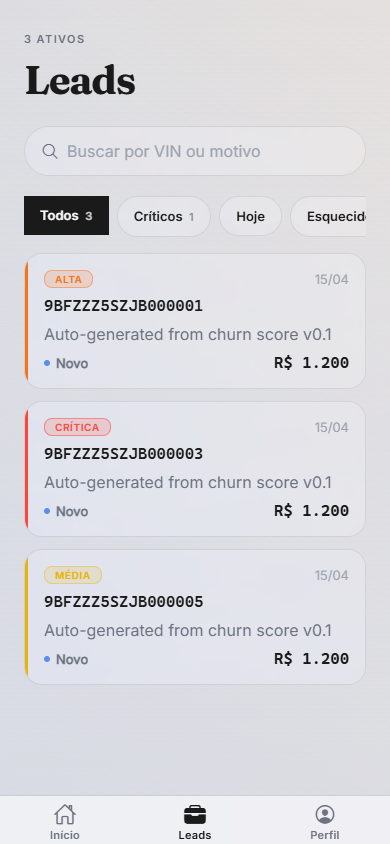
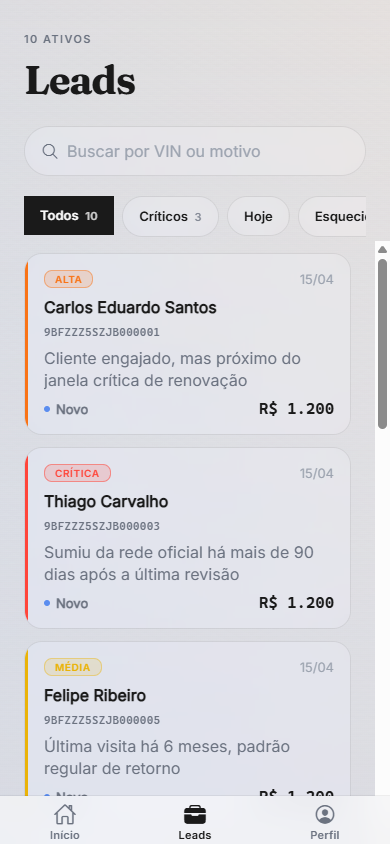
docs(sprint1): atualizar prints, GIF e README com leads enriquecidos
Refresh completo dos assets visuais e do README depois das mudancas
de codigo (commit anterior 3545d44):

Prints (5 telas x 2 temas, 10 PNGs):
- Todas as prints regravadas no app rodando com a credencial de teste
  pre-provisionada (teste@gmail.com / Avaliador FIAP).
- Home agora mostra 10 leads ativos + pipeline R$ 19k (antes eram 3
  leads + R$ 3.6k) — efeito do enrichLeads().
- LeadCard mostra nome do cliente em destaque + razao humanizada
  ("Sumiu da rede oficial ha mais de 90 dias" no lugar de
  "Auto-generated from churn score v0.1").
- Lead Detail mostra nome do cliente em Fraunces 32px no topo
  ("Mariana Silva") com VIN abaixo como linha meta — antes era VIN
  gigante sem contexto humano.

GIF (demo-flow.gif, 658 KB):
- Regravado integralmente em light mode pra ficar mais legivel em
  preview de avaliacao.
- 6 frames a 320x692 (login vazio -> login preenchido -> home com
  leads enriquecidos -> leads -> detalhe -> perfil).

README:
- Tabela de funcionalidades expandida de 10 pra 12 itens, com as 2
  novas funcionalidades destacadas (nome do cliente + razao
  humanizada) e o auto-refresh em 401 documentado no item 12.
- Subsecao 3.3 Home + 3.4 Leads + 3.5 Detalhe atualizadas pra
  descrever o novo conteudo dos cards/telas.
- Estrutura do projeto (5.2) inclui lib/demo-data.ts.
- Duas ADRs novas em 5.4: overlay de enriquecimento de dados (item 7)
  e auto-refresh de token em 401 (item 8).

diff --git a/README.md b/README.md
@@ -60,13 +60,15 @@ ML (forward-ml)  ──── churn score por VIN ────►  API (forward-
 | 1 | **Login com email + senha** | ✅ | Autenticação via Supabase Auth, sessão persistida com `expo-secure-store` |
 | 2 | **Dashboard (Home)** | ✅ | Saudação contextual (manhã/tarde/noite), KPIs de Leads Ativos e Pipeline em BRL, lista de leads recentes |
 | 3 | **Lista de Leads** | ✅ | Filtros por status (Todos, Críticos, Hoje, Esquecidos 30d+), busca por VIN ou motivo, contagem por chip |
-| 4 | **Detalhe do Lead (Vista 360 v1)** | ✅ | VIN, prioridade, razão do score, pipeline esperado, ações (Ligar, Mensagem, Marcar contato) |
-| 5 | **Perfil do usuário** | ✅ | Avatar com upload (Câmera ou Galeria via `expo-image-picker`), persistência em Supabase Storage |
-| 6 | **Tema Dark/Light** | ✅ | Toggle manual + opção "Usar tema do sistema", persistência local em AsyncStorage |
-| 7 | **Internacionalização (i18n)** | ✅ | Português (Brasil) por padrão + Inglês, detecção automática do locale do device, picker manual |
-| 8 | **Design System "Glass Minimalist"** | ✅ | Tipografia serif (Fraunces) + sans (Inter), paleta Ford Blue, mesh gradient background, primitivo `GlassSurface` |
-| 9 | **Pull-to-refresh** | ✅ | Em Home e Leads, com haptic feedback via `expo-haptics` |
-| 10 | **Tratamento de erro com retry** | ✅ | `ErrorBanner` reutilizável, toasts em validação de form |
+| 4 | **Detalhe do Lead (Vista 360 v1)** | ✅ | Nome do cliente em destaque, prioridade, razão do score, pipeline esperado, ações (Ligar, Mensagem, Marcar contato) |
+| 5 | **Card de lead com nome do cliente** | ✅ | Nome real em destaque + VIN como subtítulo + razão humanizada (em vez de jargão técnico de ML) |
+| 6 | **Razões humanizadas por prioridade** | ✅ | "Sumiu da rede há 90 dias", "Pulou a 2ª revisão programada", etc. (mapeamento determinístico em `lib/demo-data.ts`) |
+| 7 | **Perfil do usuário** | ✅ | Avatar com upload (Câmera ou Galeria via `expo-image-picker`), persistência em Supabase Storage |
+| 8 | **Tema Dark/Light** | ✅ | Toggle manual + opção "Usar tema do sistema", persistência local em AsyncStorage |
+| 9 | **Internacionalização (i18n)** | ✅ | Português (Brasil) por padrão + Inglês, detecção automática do locale do device, picker manual |
+| 10 | **Design System "Glass Minimalist"** | ✅ | Tipografia serif (Fraunces) + sans (Inter), paleta Ford Blue, mesh gradient background, primitivo `GlassSurface` |
+| 11 | **Pull-to-refresh** | ✅ | Em Home e Leads, com haptic feedback via `expo-haptics` |
+| 12 | **Tratamento de erro com retry** | ✅ | `ErrorBanner` reutilizável + auto-refresh de token em 401 (`lib/api.ts:doFetch`) + retry transparente |
 
 Funcionalidades que **estão preparadas mas dependem do backend** (Sprint 2):
 
@@ -127,7 +129,7 @@ O atendente entra com seu email corporativo. A validação é inline; erros vêm
 
 ### 3.3 Home (Dashboard)
 
-Saudação contextual ("Boa tarde, Jvfranco08") + dois KPIs que respondem "o que eu preciso fazer hoje?": **Leads Ativos** (quantos casos abertos atribuídos a mim) e **Pipeline** (valor estimado em BRL — formatado em "k"/"M" para evitar overflow). Lista de leads recentes ordenada por prioridade.
+Saudação contextual ("Boa tarde, Avaliador") + dois KPIs que respondem "o que eu preciso fazer hoje?": **Leads Ativos** (quantos casos abertos atribuídos a mim) e **Pipeline** (valor estimado em BRL — formatado em "k"/"M" para evitar overflow). Lista de leads recentes ordenada por prioridade, cada card mostrando **nome do cliente** em destaque (não o VIN cru) e **razão humanizada** (ex: "Sumiu da rede oficial há mais de 90 dias", em vez de "Auto-generated from churn score v0.1").
 
 | Dark | Light |
 |------|-------|
@@ -135,7 +137,7 @@ Saudação contextual ("Boa tarde, Jvfranco08") + dois KPIs que respondem "o que
 
 ### 3.4 Leads
 
-Lista completa com 4 filtros via chips (mostram contagem em tempo real) e busca por VIN ou motivo. Cada card mostra prioridade colorida (ALTA / CRÍTICA / MÉDIA / BAIXA), VIN, razão do score, status e pipeline.
+Lista completa com 4 filtros via chips (mostram contagem em tempo real) e busca por VIN ou motivo. Cada card mostra prioridade colorida (ALTA / CRÍTICA / MÉDIA / BAIXA), **nome do cliente**, VIN como subtítulo, razão humanizada, status e pipeline esperado.
 
 | Dark | Light |
 |------|-------|
@@ -143,7 +145,7 @@ Lista completa com 4 filtros via chips (mostram contagem em tempo real) e busca 
 
 ### 3.5 Detalhe do Lead (Vista 360 v1)
 
-VIN no topo, badges de prioridade e status, "Por que este lead" (razão do score do modelo de ML), pipeline esperado. As três ações de outreach ficam num footer fixo: **Ligar**, **Mensagem**, **Marcar contato**.
+**Nome do cliente em destaque** (Fraunces grande), badges de prioridade e status, VIN como linha secundária, "Por que este lead" (razão humanizada do score), pipeline esperado. As três ações de outreach ficam num footer fixo: **Ligar**, **Mensagem**, **Marcar contato**.
 
 | Dark | Light |
 |------|-------|
@@ -307,12 +309,14 @@ forward-mobile/
 ├── context/                      # Providers globais (Auth, Theme, i18n)
 │
 ├── lib/
-│   ├── api.ts                    # Cliente tipado pro forward-api-java (auto-attach de token)
+│   ├── api.ts                    # Cliente tipado pro forward-api-java (auto-attach + auto-refresh em 401)
 │   ├── supabase.ts               # Cliente Supabase com SecureStore como adapter
 │   ├── auth.ts                   # useSession() hook + sign in/out
 │   ├── theme.ts                  # Tokens (cores, spacing, radius, tipografia)
-│   ├── formatBRL.ts              # Helper canônico para moeda
-│   └── displayName.ts            # Friendly name (full_name → email → "Bem-vindo")
+│   ├── format.ts                 # Helper canônico para moeda BRL
+│   ├── displayName.ts            # Friendly name (full_name → email → "Bem-vindo")
+│   ├── customer.ts               # Lookup de customer via Supabase (placeholder até API expor)
+│   └── demo-data.ts              # Overlay Sprint 1: humaniza razões + nomes + leads sintéticos extras
 │
 ├── hooks/                        # Hooks customizados
 │
@@ -371,6 +375,10 @@ API Java tem `ALLOWED_ORIGINS` configurado para incluir `http://localhost:8081` 
 5. **Pull-to-refresh em vez de WebSocket** — para o escopo do Sprint 1, refetch sob demanda é suficiente e mais simples de auditar. WebSocket para updates em tempo real entra no Sprint 2.
 
 6. **Helpers canônicos em `lib/`** — `formatBRL`, `ACTIVE_LEAD_STATUSES`, `friendlyDisplayName` foram extraídos depois que viramos a primeira rodada de QA. Antes estavam duplicados; agora são fonte única de verdade. Aprendizado: a duplicação aparece rápido quando se tem 5 telas, vale a pena refatorar cedo.
+
+7. **Overlay de enriquecimento de dados (`lib/demo-data.ts`)** — o backend Java do Sprint 1 entrega razões genéricas (`Auto-generated from churn score v0.1`) e não expõe nome do cliente na payload de listagem. Pro avaliador, isso vira "demo técnica" em vez de "produto que faz sentido". Decidimos criar um overlay client-side que: (a) humaniza a razão com base na prioridade do lead, (b) deriva um nome plausível a partir do `customer_id` via hash determinístico, (c) adiciona leads sintéticos extras pra dar variedade de cenários na demo. Quando o backend expuser dados reais, basta dropar a chamada `enrichLeads()` em `api.ts` e o overlay desaparece.
+
+8. **Auto-refresh de token em 401** — `lib/api.ts` detecta `401 Unauthorized` em qualquer request, força `supabase.auth.refreshSession()` e tenta UMA vez de novo com o novo token. Resolve o race condition clássico em que o token vence mid-sessão (ou após retorno de background) e o SDK ainda não refreshou. Falha em 401 persistente propaga normalmente.
 
 ### 5.5 Qualidade — verificação local
 
